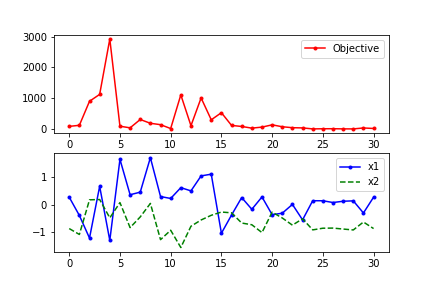
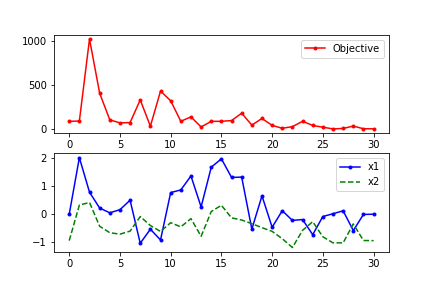
Add files via upload

diff --git a/woa-master/src/whale_optimization.py b/woa-master/src/whale_optimization.py
@@ -22,19 +22,18 @@ class WhaleOptimization():
                                                                  
         for s in ranked_sol[1:]:
             if np.random.uniform(0.0, 1.0) > 0.5:                                      
-                A = self._compute_A()                                                     
-                norm_A = np.linalg.norm(A)                                                
-                if norm_A < 1.0:                                                          
-                    new_s = self._encircle(s, best_sol, A)                                
+                A = self._compute_A() #sonraki pozisyonu hesaplamak için WAO ya özel değişkeni hesaplıyoruz                                            
+                norm_A = np.linalg.norm(A)    #sonuca göre rastgele vaktör üretiyoruz                                            
+                if norm_A < 1.0:                                                 
+                    new_s = self._encircle(s, best_sol, A)#sonuç tatmin edici ise alanımızı daraltıyoruz                           
                 else:                                                                     
-                    ###select random sol                                                  
-                    random_sol = self._sols[np.random.randint(self._sols.shape[0])]       
-                    new_s = self._search(s, random_sol, A)                                
+                    random_sol = self._sols[np.random.randint(self._sols.shape[0])]    #sonuçların arasından rastgele seçiyoruz   
+                    new_s = self._search(s, random_sol, A)    #sonuç tatmin edici değil ise başka bir sonuç seçip aramaya devam ediyoruz                            
             else:                                                                         
-                new_s = self._attack(s, best_sol)                                         
-            new_sols.append(self._constrain_solution(new_s))
+                new_s = self._attack(s, best_sol)      #spiral çizerek hedefe yaklaşır                                   
+            new_sols.append(self._constrain_solution(new_s)) # mesafeyi diziye kaydediyoruz
 
-        self._sols = np.stack(new_sols)
+        self._sols = np.stack(new_sols) #oluşan yeni sonuçları bir sonraki iterasyonda kullanmak için sols a ekliyoruz
         self._a -= self._a_step
 
     def _init_solutions(self, nsols):
@@ -83,11 +82,11 @@ class WhaleOptimization():
         return 2.0*np.random.uniform(0.0, 1.0, size=2)
                                                                  
     def _encircle(self, sol, best_sol, A):
-        D = self._encircle_D(sol, best_sol)
+        D = self._encircle_D(sol, best_sol) # D parametramize ihtiyacımız var
         return best_sol - np.multiply(A, D)
                                                                  
     def _encircle_D(self, sol, best_sol):
-        C = self._compute_C()
+        C = self._compute_C() # C parametremize ihtiyacımız var
         D = np.linalg.norm(np.multiply(C, best_sol)  - sol)
         return D
 

diff --git a/woa-master/run.py b/woa-master/run.py
@@ -11,8 +11,7 @@ def parse_cl_args():
     parser.add_argument("-a", type=float, default=2.0, dest='a', help='woa algorithm specific parameter, controls search spread') 
     parser.add_argument("-b", type=float, default=0.5, dest='b', help='woa algorithm specific parameter, controls spiral,') 
     parser.add_argument("-c", type=float, default=None, dest='c', help='absolute solution constraint value') 
-    parser.add_argument("-func", type=str, default='goldstein', dest='func', help='function to be optimized, options: ackley, levi, beale, goldstein') 
-    parser.add_argument("-r", type=float, default=0.25, dest='r', help='resolution of function meshgrid') 
+    parser.add_argument("-func", type=str, default='beale', dest='func', help='function to be optimized, options: ackley, levi, beale, goldstein') 
     parser.add_argument("-t", type=float, default=0.1, dest='t', help='animate sleep time, lower values increase animation speed, default: 0.1') 
     parser.add_argument("-max", default=False, dest='max', action='store_true', help='enable for maximization, default: False (minimization)') 
 
